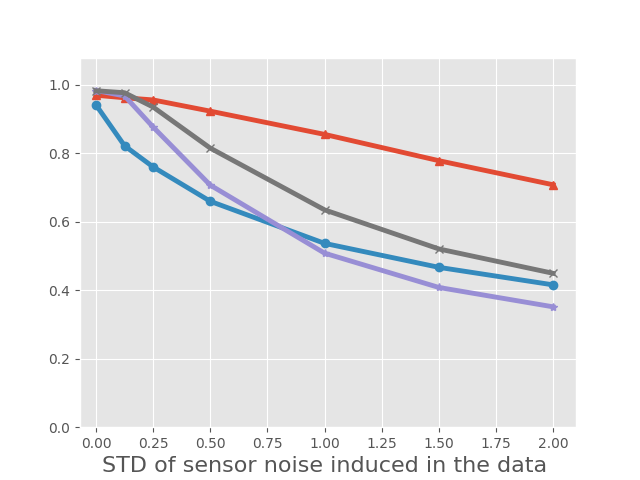
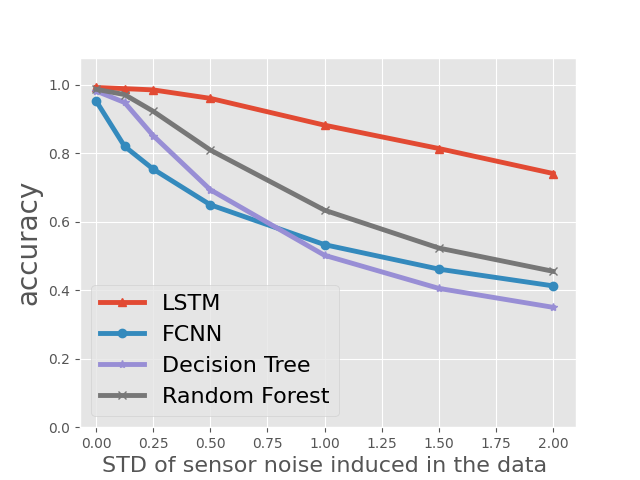
Other data set update

diff --git a/original code/main.py b/original code/main.py
@@ -31,7 +31,7 @@ KIA = True #if false: using VehicularData(anonymized) set
 TRAINING = False #if false will load model
 TEST_NOISE = True
 SAVE_MODEL = False #overwrites earlier saved model!!
-SAVE_FIG = False #overwrites earlier saved figure
+SAVE_FIG = True #overwrites earlier saved figure
 if KIA:
     save_model_name = "group48_model_KIA"
 else:
@@ -39,7 +39,7 @@ else:
 
 
 
-EPOCHS = 25
+EPOCHS = 5
 NUM_CLASSES = 10
 NOISE_FACTOR = 2.5
 MASK_FACTOR = 0.6
@@ -65,12 +65,27 @@ def pre_process_encoder(df):
         y = df_10.Class
         # print(y)
     else:
-        # tom en sander meuk komt nu! :)
         df = df.iloc[:85095, [1, 10, 11, 12, 13, 14, 16, 19, 20, 22, 26, 27, 29, 31, 32, 33, 35, 36, 38, 40, 41, 42]]
         'Features and label'
         X = df.drop('Person_Id',1)
         y = df.Person_Id
         print(y)
+        # tom en sander meuk komt nu! :)
+        # df_10 = df.iloc[:85095, :]
+        # df_10 = df_10.drop('Reaction_Time', 1)
+        # df_10 = df_10.drop('Device_Time', 1)
+        # df_10 = df_10.drop('GPS_Time', 1)
+        # df_10 = df_10.drop('Device_Cost_Km_Inst', 1)
+        # df_10 = df_10.drop('Trip', 1)
+        # df_10 = df_10.drop('GPS_Long', 1)
+        # df_10 = df_10.drop('GPS_Lat', 1)
+        # df_10 = df_10.drop('GPS_HDOP', 1)
+        # df_10 = df_10.drop('GPS_Bearing', 1)
+        # # 'Features and label'
+        # X = df_10.drop('Person_Id',1)
+        # y = df_10.Person_Id
+        # print(y)
+
 
 
     print("X data shape (features): ", X.shape)
@@ -632,8 +647,12 @@ if TEST_NOISE:
     plt.xlabel("STD of sensor noise induced in the data ", fontsize=16)
     if SAVE_FIG:
         if KIA:
+            plt.legend(loc=3, fontsize=16)
+            plt.ylabel("accuracy", fontsize=20)
             plt.savefig('KIA.png')
         else:
+            plt.legend(loc=3, fontsize=16)
+            plt.ylabel("accuracy", fontsize=20)
             plt.savefig('VehicularData.png')
 else:
     plt.axis([-0.07, .82, 0, 1.08])
